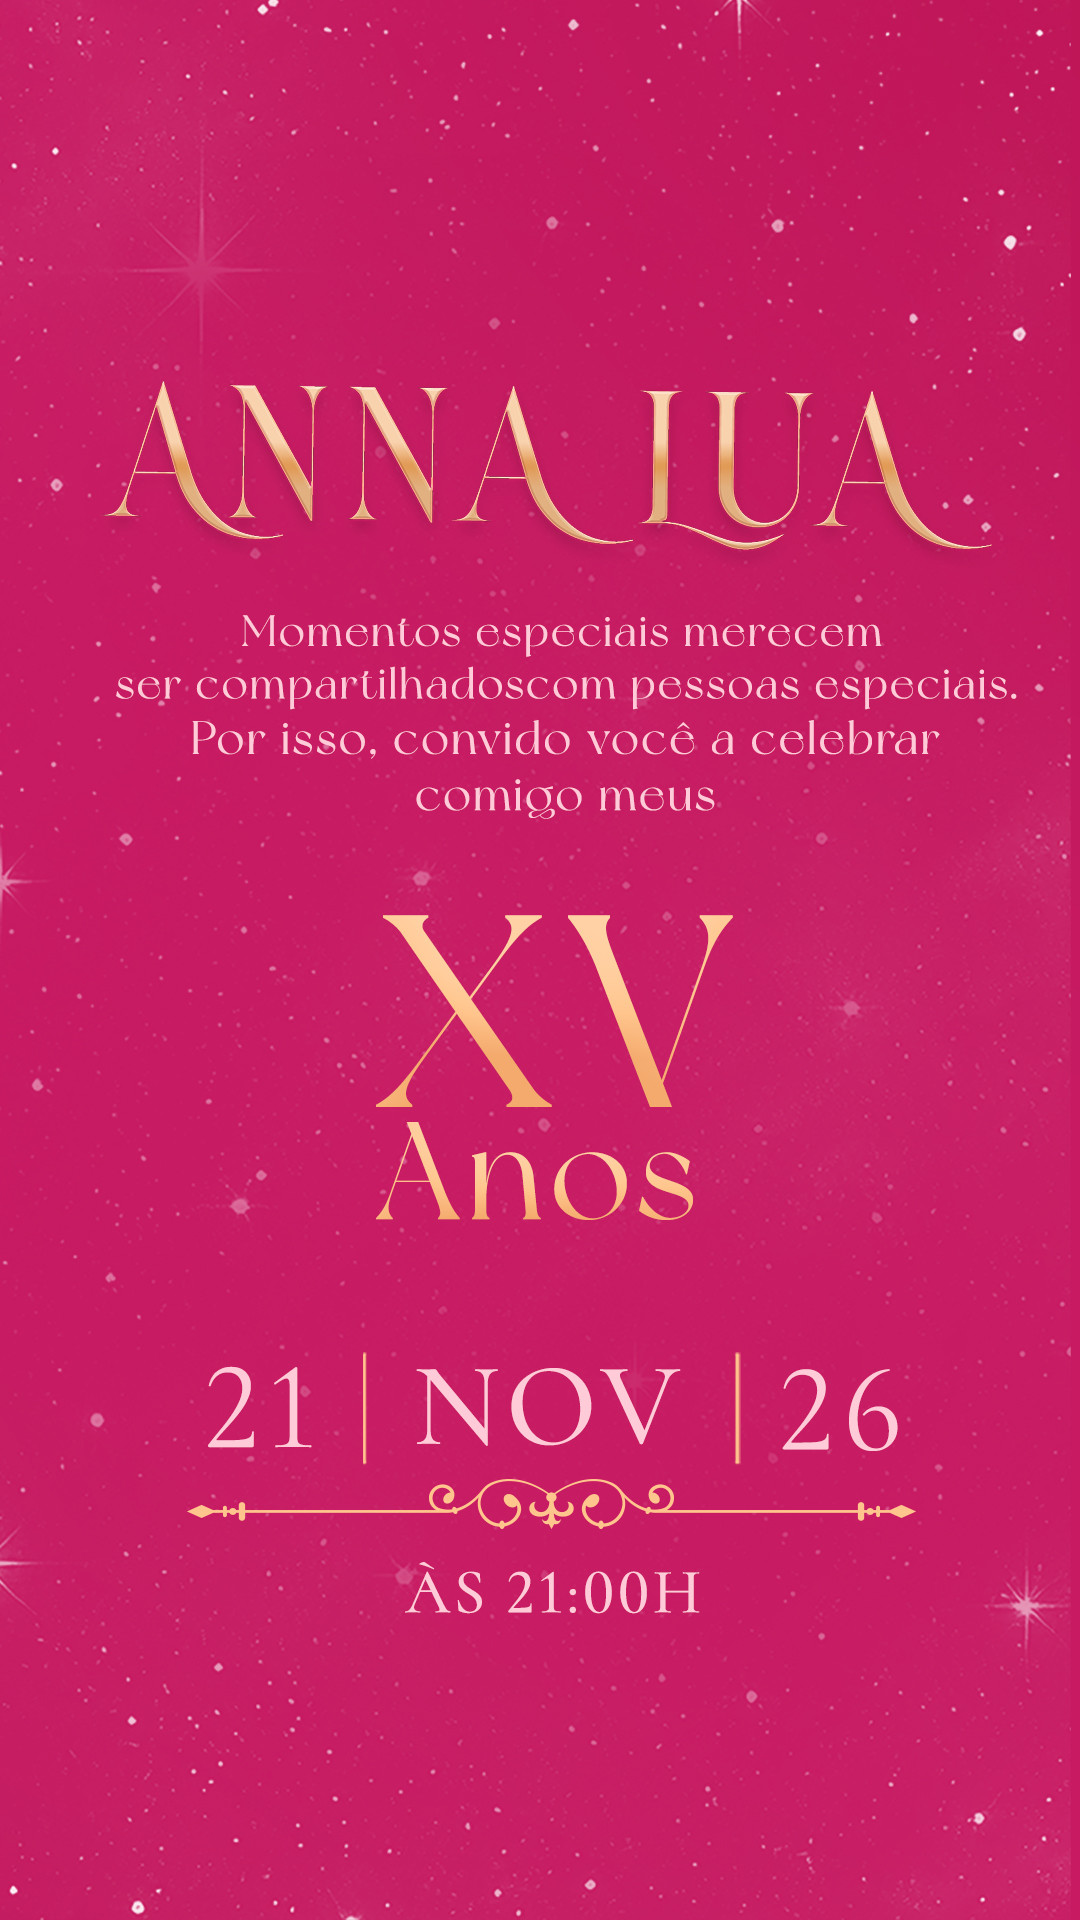
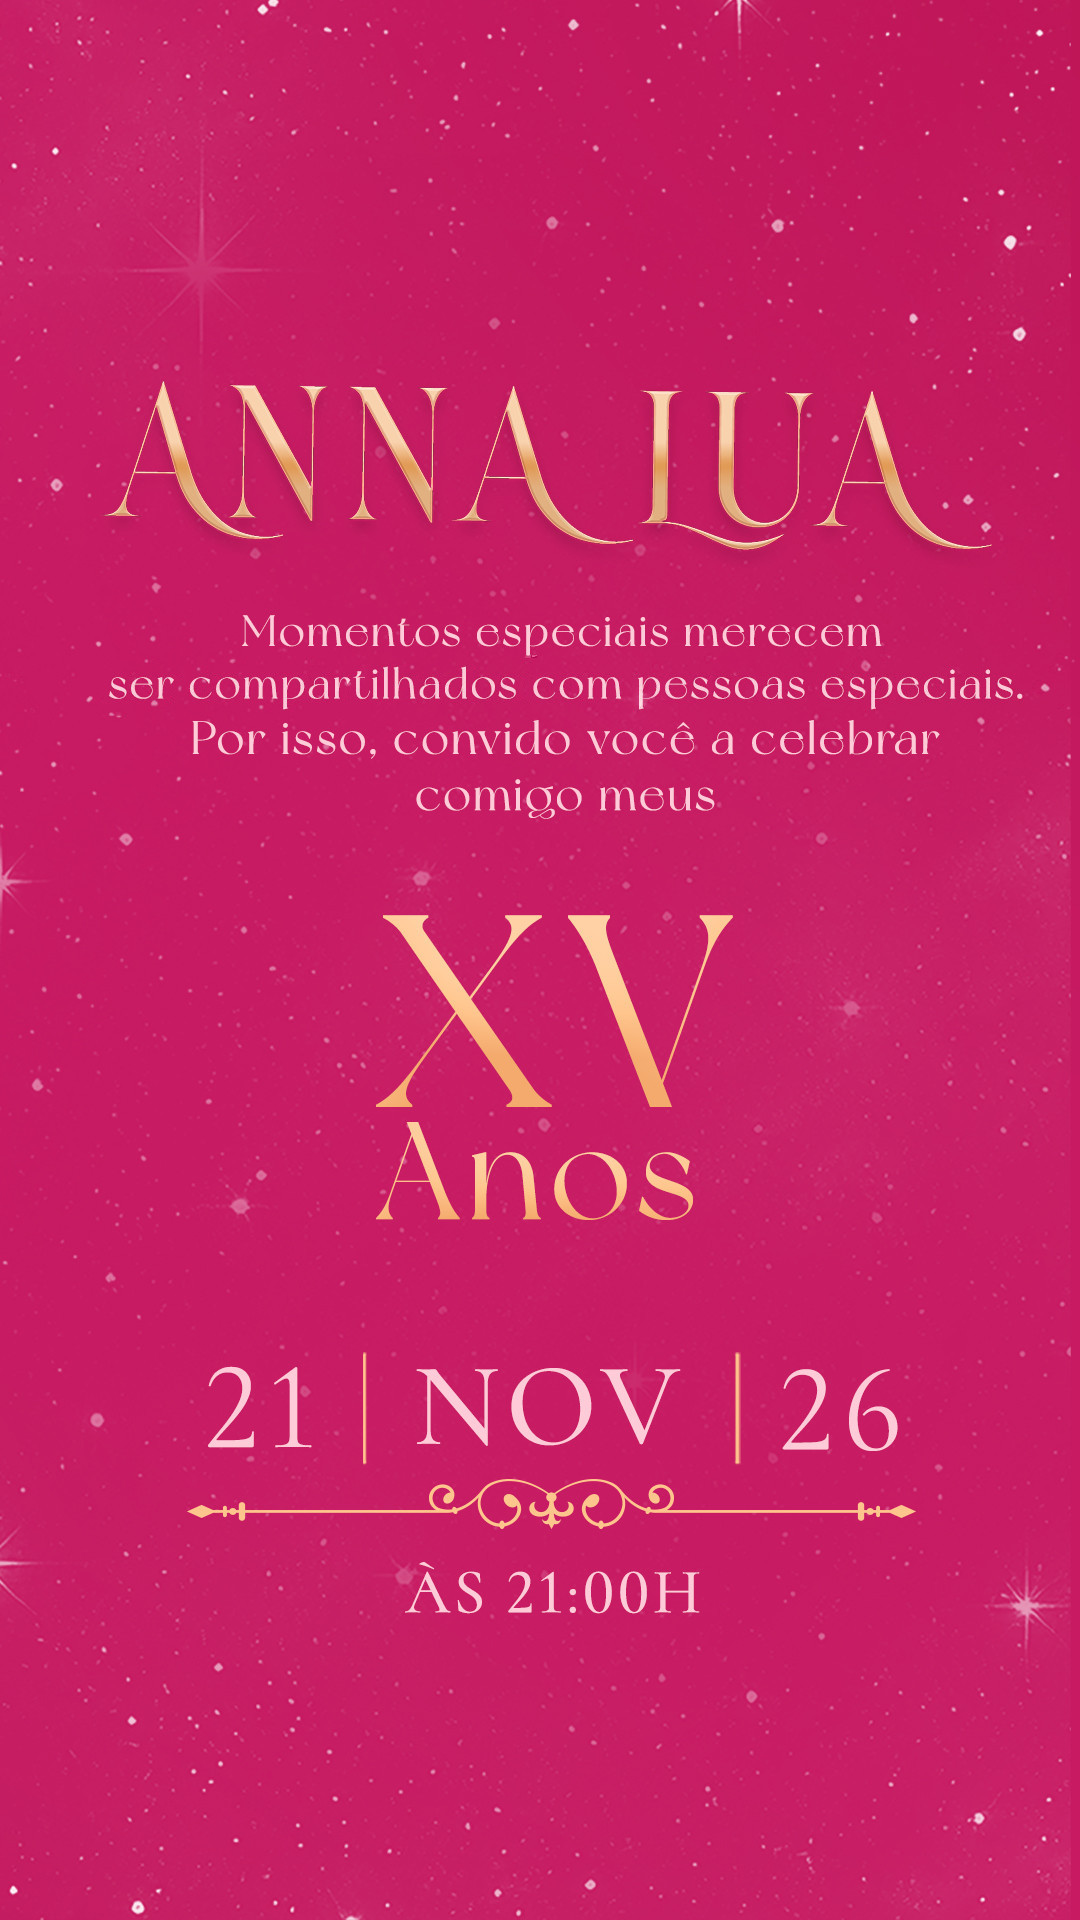
Add files via upload

Changed region(s): [[0.0917, 0.3438, 0.9472, 0.375]]

diff --git a/index.html b/index.html
@@ -163,17 +163,19 @@
     </section>
   </div>
   <div class="pagina"><img class="pg" src="img/p4.jpg" alt="Dress code: esporte fino. Com carinho, pedimos que o rosa fique reservado para a debutante."></div>
-  <div class="pagina"><img class="pg" src="img/p5.jpg" alt="Localização: Alameda das Framboesas, 151 - Caminho das Árvores, Salvador - BA, 41820-450."></div>
+  <div class="pagina"><img class="pg" src="img/p5.jpg" alt="Localização: Espaço Felicità, R. Fernando José Guimarães Rocha, 123 - Imbuí, Salvador - BA, 41741-090."></div>
   <div class="pagina"><img class="pg" src="img/p6.jpg" alt="Manual do convidado: atente-se ao horário descrito no convite; chegue na hora para poder aproveitar cada momento da festa. Teremos um dia incrível, de muita alegria e diversão; capriche no look para a festa! Confirme sua presença até 04 de novembro de 2026 para garantir que seu nome esteja na lista de convidados. Cada pessoa convidada faz parte da minha história; caso não possa comparecer, por favor, nos informe. Obrigada!"></div>
-  <div class="pagina"><img class="pg" src="img/p7.jpg" alt="Clique nos ícones para interagir: localização e confirme sua presença.">
-    <a class="ponto" id="p-mapa" style="left:35.6%;top:82.8%" target="_blank" rel="noopener" aria-label="Abrir localização no mapa"
-       href="https://www.google.com/maps?cid=16861065116115384104"></a>
-    <a class="ponto" id="p-rsvp" style="left:65.6%;top:82.8%" target="_blank" rel="noopener" aria-label="Confirmar presença" href="#"></a>
+  <div class="pagina"><img class="pg" src="img/p7.jpg" alt="Lista de presentes. O que eu amaria ganhar: body splash e perfume, hidratante, make, itens de cabelo, acessórios, bolsas, berloque Vivara, blusas tamanho P, short tamanho 38, calça tamanho 40, calçado 40/41. Minhas marcas favoritas: C&amp;A, Centauro, Farm, Florenza, O Boticário, Prata e Prata, Renner, Romanel, Sephora, Victoria's Secret, Vivara, Youcom."></div>
+  <div class="pagina"><img class="pg" src="img/p8.jpg" alt="Clique nos ícones para interagir: localização, confirme sua presença e lista de presentes.">
+    <a class="ponto" id="p-mapa" style="left:21.3%;top:82.8%" target="_blank" rel="noopener" aria-label="Abrir localização no mapa"
+       href="https://www.google.com/maps?cid=4821349465897848643"></a>
+    <a class="ponto" id="p-rsvp" style="left:50%;top:82.8%" target="_blank" rel="noopener" aria-label="Confirmar presença" href="#"></a>
+    <a class="ponto" id="p-lista" style="left:78.7%;top:82.8%" aria-label="Ver lista de presentes" href="#"></a>
   </div>
  </div>
 </main>
 <div class="dica" id="dica"><svg viewBox="0 0 24 24"><path d="M14 7l-5 5 5 5"/></svg>Puxe o canto para virar a página</div>
-<div class="pontos" id="pontos"><i class="ativo"></i><i></i><i></i><i></i><i></i><i></i><i></i></div>
+<div class="pontos" id="pontos"><i class="ativo"></i><i></i><i></i><i></i><i></i><i></i><i></i><i></i></div>
 <button class="seta" id="ant" type="button" aria-label="Página anterior"><svg viewBox="0 0 24 24"><path d="M15 6l-6 6 6 6"/></svg></button>
 <button class="seta" id="prox" type="button" aria-label="Próxima página"><svg viewBox="0 0 24 24"><path d="M9 6l6 6-6 6"/></svg></button>
 <canvas id="poeira" aria-hidden="true"></canvas>
@@ -231,8 +233,7 @@
 
 
   /* ---------- mapa e confirmação abrem dentro do convite (a música não para) ---------- */
-  var MAPA_APP='https://www.google.com/maps?cid=16861065116115384104';
-  var MAPA_EMBED='https://maps.google.com/maps?q=-12.9820212,-38.4567149&z=17&output=embed';
+  var MAPA_APP='https://www.google.com/maps?cid=4821349465897848643';
   var janela=document.getElementById('janela'), jf=document.getElementById('janela-frame'), jt=document.getElementById('janela-titulo'),
       jr=document.getElementById('janela-rodape'), jx=document.getElementById('janela-externo');
   function abrirJanela(titulo,src,externo){
@@ -369,6 +370,7 @@
   }
   function proxima(){ if(animando||atual>=folhas.length-1) return; var f=folhas[atual]; animar(f,VIRADA(),850,H*0.18,function(){ irPara(atual+1); }); }
   function anterior(){ if(animando||atual<=0) return; var f=folhas[atual-1]; animar(f,v(W,H),850,H*0.18,function(){ irPara(atual-1); }); }
+  document.getElementById('p-lista').addEventListener('click',function(e){ e.preventDefault(); anterior(); });
   // ---------- arrastar ----------
   function local(e){ var r=palco.getBoundingClientRect(), t=e.touches?e.touches[0]:e; return v(t.clientX-r.left,t.clientY-r.top); }
   function limita(P){
